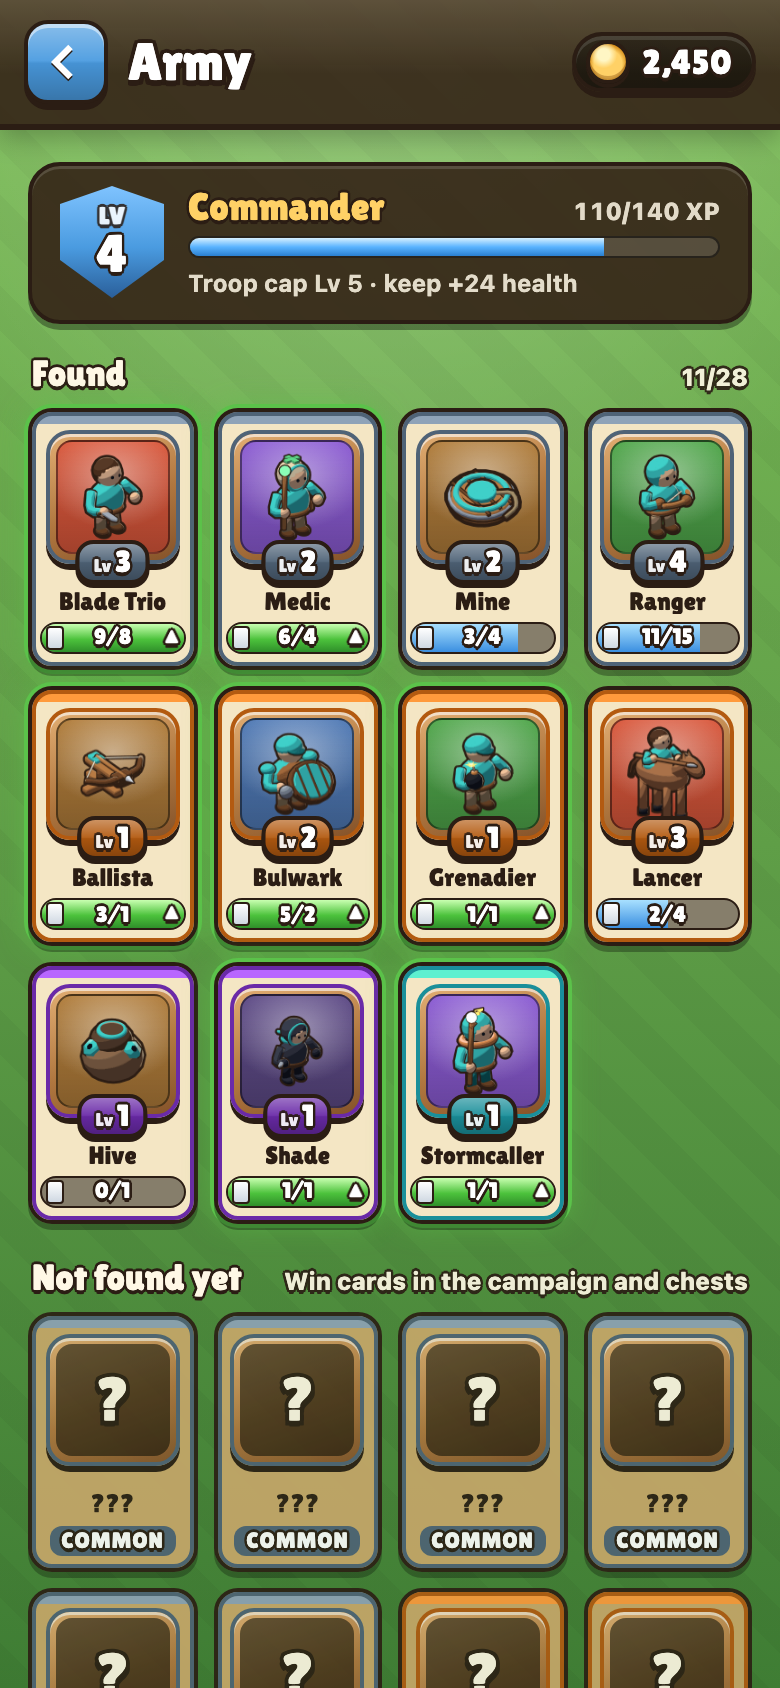
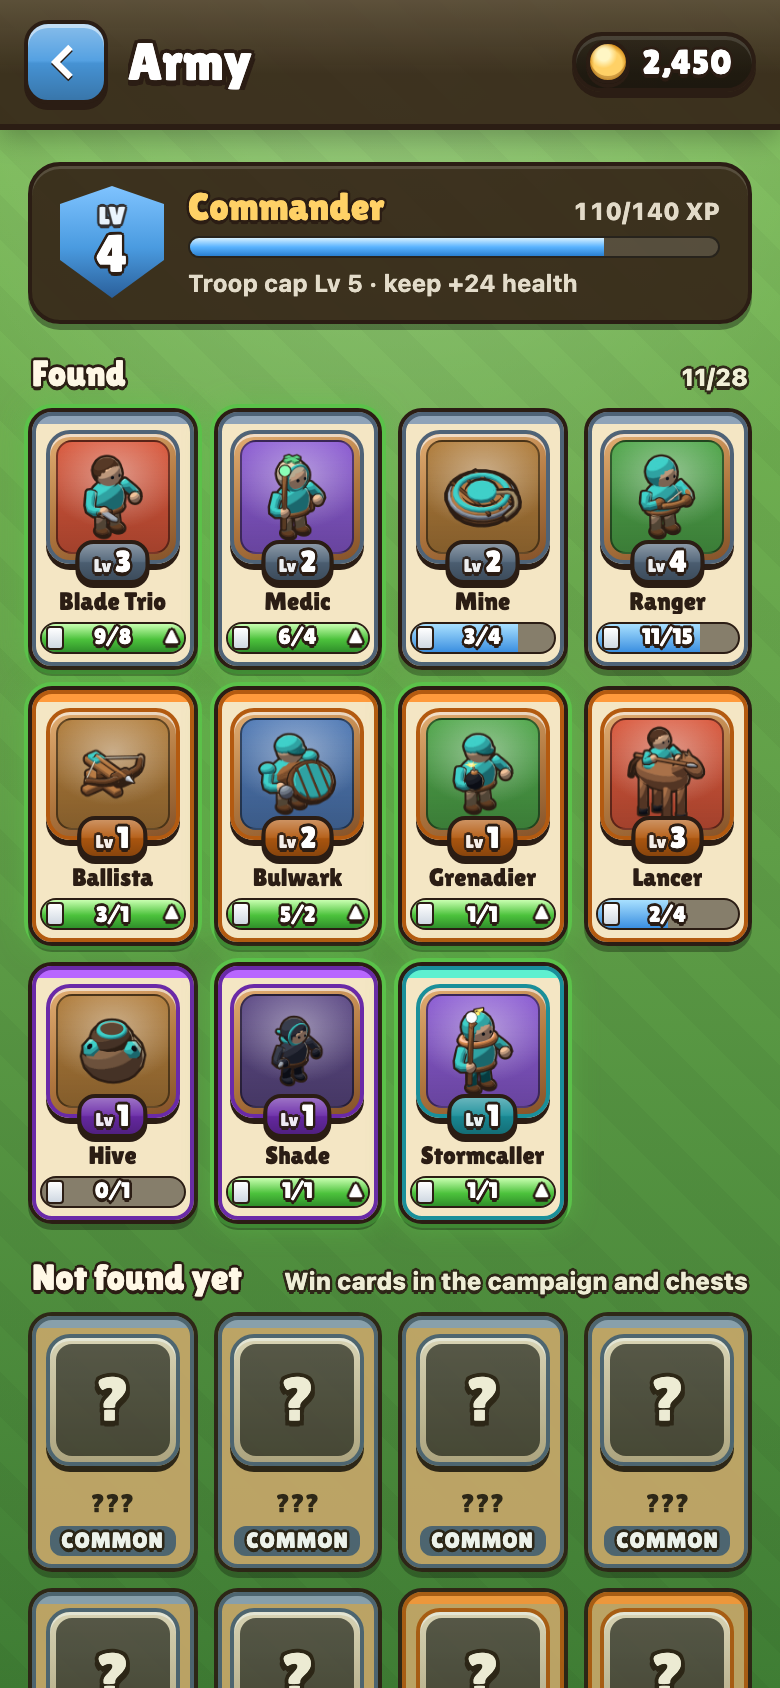
Army: back-pay first-clear cards on migration, silhouettes, progression.md and balance runs

diff --git a/src/progression/troops.ts b/src/progression/troops.ts
@@ -49,8 +49,9 @@ const prog = (): ProgressionSave => {
 export const migrateLevel = (old: number) => Math.min(MAX_LEVEL, 1 + Math.ceil(((Math.min(10, clampLevel(old)) - 1) * 3) / 8));
 /**
  * Moves a save to the card collection, once: every unit met in the campaign (and any levelled one) is found, the
- * starters are found, and old troop levels become their new-scale equivalents. Commander XP starts from the upgrades
- * those levels stand for. Pure over a save object, so tests need no storage.
+ * starters are found, old troop levels become their new-scale equivalents, and each cleared level pays the cards and
+ * commander XP its first clear would have. Commander XP also counts the upgrades the old levels stand for. Pure over a
+ * save object, so tests need no storage.
  */
 export function migrateArmySave(s: Save): boolean {
   const p = normalizeProgression(s.progression);
@@ -65,6 +66,12 @@ export function migrateArmySave(s: Save): boolean {
   }
   const met = new Set<UnitKind>([...STARTER_KINDS, ...unlockedKinds(s.campaign ?? {}), ...(Object.keys(p.levels) as UnitKind[])]);
   for (const k of met) if (!c.found.includes(k)) grantIn(c, k, 1);
+  // The cards their first clears would have paid, so a returning player opens the Army with upgrades to make.
+  for (const l of LEVELS) {
+    if ((s.campaign?.[l.id] ?? 0) <= 0) continue;
+    xp += l.boss ? WIN_XP.boss : WIN_XP.firstClear;
+    for (const [k, n] of campaignCards({ act: l.act, roster: l.roster, unlocks: l.unlocks ?? (l.unlock ? [l.unlock] : []), first: true, won: true, salt: l.id })) grantIn(c, k, n);
+  }
   s.collection = c;
   s.progression = { ...p, levels, v: 2, ...(xp ? { xp } : {}) };
   return true;

diff --git a/src/ui/army.css b/src/ui/army.css
@@ -133,5 +133,6 @@
 .tag.rec { background: var(--gloss), var(--k-blue); color: #fff; text-shadow: var(--ol-s); }
 .tag.rec.low { background: var(--gloss), var(--k-danger); }
 .ar-cmd-up-gains .icon { width: 22px; height: 22px; color: var(--gold); fill: var(--gold); }
-.ar-tile.ghost .ar-portrait.frame { background: linear-gradient(#e8dcc2, #b9a988) !important; }
-.ar-tile.ghost .ar-portrait.frame canvas { filter: brightness(0) opacity(0.62); }
+
+.ar-tile.ghost .ar-portrait.frame canvas { filter: grayscale(1) brightness(0.42) contrast(1.7); }
+.pg-r-cap { text-align: center; justify-content: center; flex-wrap: wrap; }

diff --git a/tests/progression.test.ts b/tests/progression.test.ts
@@ -251,6 +251,7 @@ describe("migration to the card collection", () => {
     const found = s.collection!.found;
     for (const k of [...unlockedKinds(s.campaign), ...STARTER_KINDS]) expect(found).toContain(k);
     expect(found).not.toContain("golem");
+    expect(Object.values(s.collection!.cards).reduce((x, y) => x + (y ?? 0), 0)).toBeGreaterThan(20); // first-clear cards back-paid
     expect(migrateArmySave(s)).toBe(false);
     expect(s.progression?.levels).toEqual({ blades: 5, ranger: 3 });
   });

diff --git a/outputs/economy/progression.md b/outputs/economy/progression.md
@@ -1,0 +1,154 @@
+# Troop progression: cards + coins, commander level, the Army
+
+Branch `feature/army`. Code: `src/core/levels.ts` (the sim's level curve), `src/progression/economy.ts` (every number
+on this page), `src/progression/troops.ts` (save binding, upgrades, XP, migration, reward hooks),
+`src/progression/collection.ts` (found units and spare cards, the shared contract), `src/ui/army.ts` + `army.css`
+(the Army screen, result lines, defeat hint). Tools: `tools/balance.ts`, `tools/progression-pace.ts`,
+`tools/army-shots.mjs`. Shots: `outputs/review/army/`.
+
+Nothing here is behind a paywall. Every level is reachable by playing; coins and gems only get you there faster.
+
+## What a level does
+
+| | |
+|---|---|
+| Levels | 1-12 (`MAX_LEVEL`) |
+| Per level | **+8% health and damage** (`LEVEL_STEP`), healing too; spawned bodies (mites, thralls) share their maker's level |
+| Level 12 | +88% |
+| Level 1 | multiplier exactly 1: a level-1 army is the game as tuned (tested body for body) |
+| Daily, Breakpoint puzzles | always level 1 for both sides, and no commander keep bonus (tested) |
+
+8% is big on purpose: a level is felt, and a level behind is a real handicap (see the balance numbers below).
+
+## Upgrade costs (cards + coins, Clash Royale style)
+
+Cards to go from level L to L+1 (`UPGRADE_CARDS`). Rarer units need fewer cards because their cards are scarcer
+(campaign bundles pay a rare 50%, an epic 20% and a legendary 10% of a common's count).
+
+| Rarity | 1>2 | 2>3 | 3>4 | 4>5 | 5>6 | 6>7 | 7>8 | 8>9 | 9>10 | 10>11 | 11>12 | Total |
+|---|---|---|---|---|---|---|---|---|---|---|---|---|
+| Common | 2 | 4 | 8 | 15 | 25 | 40 | 60 | 90 | 130 | 180 | 250 | **804** |
+| Rare | 1 | 2 | 4 | 8 | 12 | 20 | 30 | 45 | 65 | 90 | 125 | **402** |
+| Epic | 1 | 1 | 2 | 3 | 5 | 8 | 12 | 18 | 26 | 36 | 50 | **162** |
+| Legendary | 1 | 1 | 1 | 2 | 3 | 4 | 6 | 8 | 11 | 15 | 20 | **72** |
+
+Coins per level for a common (`UPGRADE_COINS`); rarer units cost more (`RARITY_COINS`: rare x1.25, epic x1.5,
+legendary x2, rounded to 10).
+
+| | 1>2 | 2>3 | 3>4 | 4>5 | 5>6 | 6>7 | 7>8 | 8>9 | 9>10 | 10>11 | 11>12 | Total |
+|---|---|---|---|---|---|---|---|---|---|---|---|---|
+| Common | 30 | 60 | 120 | 240 | 400 | 650 | 1,000 | 1,500 | 2,100 | 2,900 | 3,800 | **12,800** |
+| Legendary | 60 | 120 | 240 | 480 | 800 | 1,300 | 2,000 | 3,000 | 4,200 | 5,800 | 7,600 | **25,600** |
+
+A legendary is the hardest to max: 72 of the rarest cards and twice the coins.
+
+## Commander level (the player's level)
+
+| | |
+|---|---|
+| Levels | 1-13 (`MAX_COMMANDER`) |
+| XP to reach level 2..13 (total) | 20, 60, 140, 280, 500, 800, 1,200, 1,700, 2,400, 3,300, 4,500, 6,000 (`COMMANDER_XP`) |
+| XP per upgrade, by the level reached | L2 4, L3 6, L4 10, L5 16, L6 25, L7 40, L8 60, L9 90, L10 130, L11 180, L12 250 (`UPGRADE_XP`) |
+| XP per win | campaign first clear 15 (boss 30), campaign replay 3, Gauntlet rival 8, Skirmish win 3 (`WIN_XP`) |
+| **Troop level cap** | **commander level + 1** (2 for a new player, 12 at commander 11) (`levelCap`), replacing "2 + acts cleared" |
+| Keep health | **+8 per commander level past 1** (`KEEP_HP_PER_LEVEL`), on your side only, in the campaign and the Gauntlet. Set through the match config's `hp`; no change to `src/core` |
+
+The title shows a commander chip (level + XP bar); the Army shows the commander plate (level shield, XP bar, current
+troop cap and keep bonus). An upgrade that crosses a threshold plays the commander level-up moment (full-screen
+shield, rays, "Troop cap Lv N", "Keep +8 health"); a campaign/Gauntlet win that does so says it on the result line too.
+
+## Collection: found units and cards
+
+- Units must be **found** before they can be upgraded (`isFound`). Unfound units show in the Army as silhouettes with
+  their rarity frame.
+- A new save starts with 4 commons found: Blade Trio, Ranger, Mine, Medic (`STARTER_KINDS`).
+- Every campaign win grants cards through `grantCards` (`campaignCards`): a **first clear** finds the units that level
+  introduces (plus a few spares) and pays a bundle of `2 + 0.75 x act²` cards to two units of the level's roster; a
+  **replay** pays `1 + 0.3 x act²` to one. Rarity shares scale the bundle (rare 50%, epic 20%, legendary 10%).
+  The bundle grows with the act squared because late levels need far more cards and the roster is wider.
+- The result screen shows the coins, the cards won (portraits in rarity frames, xN) and the commander XP.
+- Chests and shop offers (another agent) feed the same `grantCards`.
+
+## The gate: campaign foe levels and the recommended level
+
+Campaign foes field their whole army at `EXPECTED_LEVEL_BY_ACT`:
+
+| Act | 1 | 2 | 3 | 4 | 5 | 6 | 7 | 8 |
+|---|---|---|---|---|---|---|---|---|
+| Foe level (= recommended level) | 1 | 2 | 3 | 4 | 5 | 6 | 7 | 8 |
+| Foe stat edge over a level-1 army | 0 | +8% | +16% | +24% | +32% | +40% | +48% | +56% |
+| Old curve (3%/level) | 1 (0) | 1 (0) | 2 (+3%) | 3 (+6%) | 3 | 4 | 4 | 5 (+12%) |
+
+- Every level card shows **"Recommended Lv N"** (red when your army is more than half a level under it).
+- Your army's level for a level is the average of your **best 8 found units in that level's roster** (`armyLevelOf`).
+- On a campaign defeat with the army under-levelled, the result sheet shows **"Your army is under-levelled"** with your
+  average vs the recommended level and an **Army** button.
+- Gauntlet rivals start at level 1 and gain one every 3 rivals, never above your troop cap. Skirmish fields your levels
+  on both sides (a like-for-like AI lab), and neither side gets a keep bonus.
+
+## Free-play pace (`tools/progression-pace.ts`)
+
+A player who never pays, plays the campaign once (plus the stated replays), earns ~120 coins a campaign level from
+the other modes (a scored Daily ~230 + Skirmish up to 300 + Gauntlet over a day of ~6 levels) and upgrades greedily.
+**No chests counted** (another agent), so this is a floor. Levels are at the end of each act.
+
+No replays:
+
+| Act | Commander | Cap | Foe | Best-8 avg | min | max | Found | Coins left |
+|---|---|---|---|---|---|---|---|---|
+| 1 | 4 | 5 | 1 | 3.4 | 2 | 4 | 5 | 1,098 |
+| 2 | 5 | 6 | 2 | 3.6 | 2 | 5 | 8 | 2,204 |
+| 3 | 6 | 7 | 3 | 4.4 | 3 | 5 | 10 | 3,178 |
+| 4 | 6 | 7 | 4 | 5.0 | 4 | 6 | 12 | 3,250 |
+| 5 | 7 | 8 | 5 | 5.6 | 5 | 6 | 12 | 2,410 |
+| 6 | 8 | 9 | 6 | 6.3 | 6 | 7 | 18 | 458 |
+| 7 | 9 | 10 | 7 | 6.3 | 6 | 7 | 28 | 64 |
+| 8 | 9 | 10 | 8 | 6.4 | 6 | 7 | 28 | 8 |
+
+Two replay wins per level: Acts 1-8 best-8 avg 3.6, 3.8, 4.9, 5.6, 6.1, 6.4, 6.4, 6.4.
+
+Reading it: campaign income alone keeps a free player at or ahead of the foe through Act 6, and about one level
+behind in Acts 7-8 (card-bound for commons at 7>8, coin-bound for rares). That last level comes from chests, the
+Daily and the Gauntlet, which is where Clash Royale puts it too. The commander cap is never what stops a free player.
+
+## Balance (`npm run balance`, one job at a time, 4 workers, `nice -n 10`)
+
+Levels 9, 12 (Act 2), 15, 18 (Act 3), 21, 24 (Act 4), 33, 36 (Act 6), 45, 48 (Act 8); N=6 seeds per player, so each
+cell is 6 games (17% steps). Raw output in `outputs/economy/balance/expected.txt`, `under.txt`, `behind.txt`.
+
+Strong (0.9) / mid (0.5) player AI win rate by act:
+
+| Player army vs foe at the curve | Act 2 | Act 3 | Act 4 | Act 6 | Act 8 |
+|---|---|---|---|---|---|
+| **Expected pace** (`PLAYER_LEVEL=expected`, parity) | 67% / 83% | 67% / 33% | 67% / 42% | 58% / 33% | 58% / 42% |
+| **Under-levelled** (`PLAYER_LEVEL=1`, never upgrades) | 42% / 58% | **0% / 8%** | **0% / 0%** | 0% / 8% | 0% / 0% |
+| **One level behind** (`PLAYER_LEVEL=behind`) | BEHIND_A2 | BEHIND_A3 | BEHIND_A4 | BEHIND_A6 | BEHIND_A8 |
+
+- At the expected pace both sides are at the same level, so the campaign plays as tuned (the level-1 tuning run had
+  strong at 71-77% by act on N=8; these N=6 cells are within noise of it). Note the expected run started before the
+  curve's last two values moved from 8/9 to 7/8, so its Act 8 rows are L9 v L9: parity either way.
+- **An army left at level 1 stalls at the Act 2 boss / start of Act 3** (strong 17% on the Act 2 boss, 0% from Act 3
+  on): upgrades are the gate. That's a little earlier than "Act 3-4"; the first Act 3 level is where a level-1 army
+  stops winning.
+- BEHIND_NOTE
+
+## Migration (old saves, once, at boot: `migrateArmy`)
+
+- Old levels (1-10 at +3%) become the new level with at least the same stats: `1 + ceil((old - 1) x 3 / 8)`, so old 2
+  is 2, old 4 is 3, old 10 is 5.
+- Found: the starters, every unit met in the campaign (`unlockedKinds`), and any levelled unit.
+- Each cleared level back-pays its first-clear cards and commander XP; the old levels' upgrades count as XP too.
+- Marked `progression.v = 2`; a migrated save is never touched again.
+
+## Main.ts hooks (all marked `// [progression]`)
+
+Imports; the title's commander chip; the "Army" title button with its upgrade-ready badge; the level card's
+"Recommended Lv N" tag; the campaign defeat's under-levelled hint; `army()` replacing `barracks()` (and `?army`, with
+`?barracks` kept); `migrateArmy()` at boot. Reward lines (`attachReward`) now open the Army.
+
+## Not done
+
+- The deck (stretch): not built. The in-match shop still offers the whole roster; picking 8 would change balance and
+  needs its own pass.
+- Chests and shop card offers: the chests agent's (they call `grantCards`).
+- `outputs/economy/coins.md` still describes the old coin-only curve; this page supersedes its cost, cap and foe tables.

diff --git a/outputs/economy/coins.md b/outputs/economy/coins.md
@@ -1,5 +1,9 @@
 # Coins and troop levels
 
+> **Superseded in part (7 Nov, `feature/army`):** upgrades now cost cards plus coins, levels run 1-12 at +8%, the
+> cap comes from the commander level and the foe curve is steeper. See `outputs/economy/progression.md` for the
+> current cost, cap and foe tables. The coin earning rules below still hold.
+
 Branch `feature/progression`. Code: `src/core/levels.ts` (the sim), `src/progression/economy.ts` (every number on this page), `src/progression/troops.ts` (save + wallet binding), `src/ui/barracks.ts` (Barracks + result-screen coin line). Coins only move through `src/economy/wallet.ts`.
 
 ## Shared anchors (the gem store uses the same ones)
